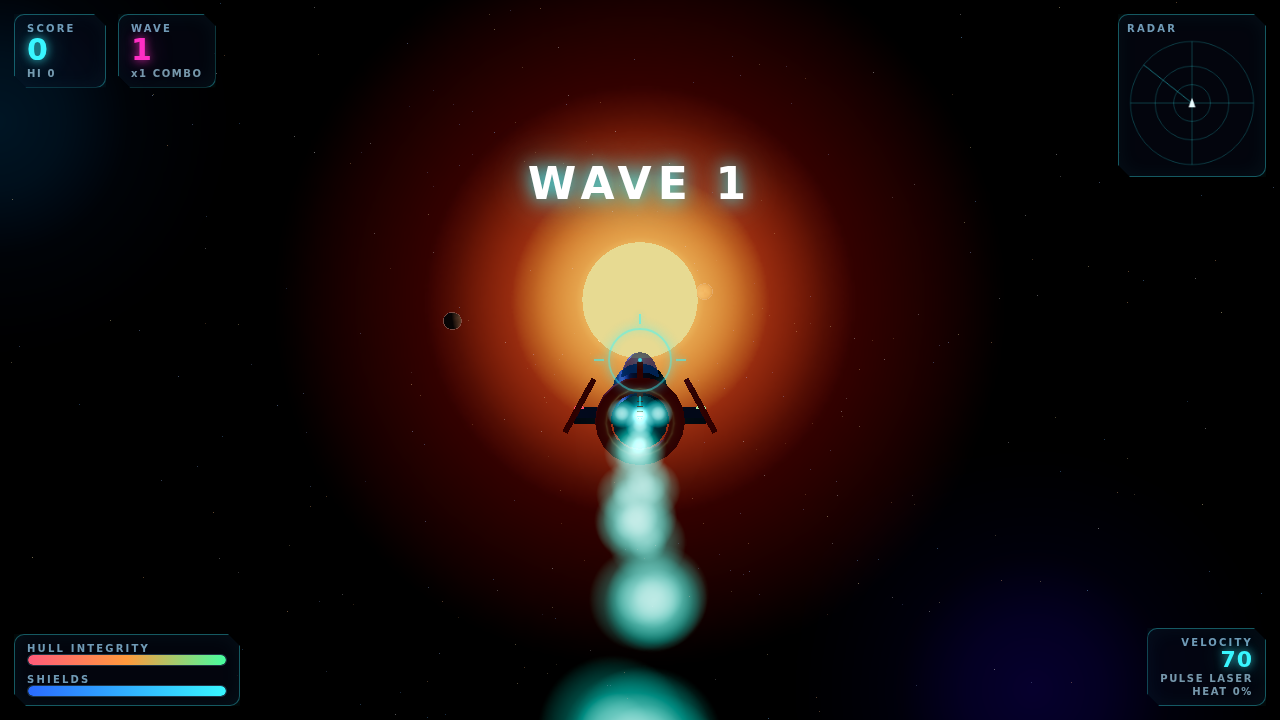
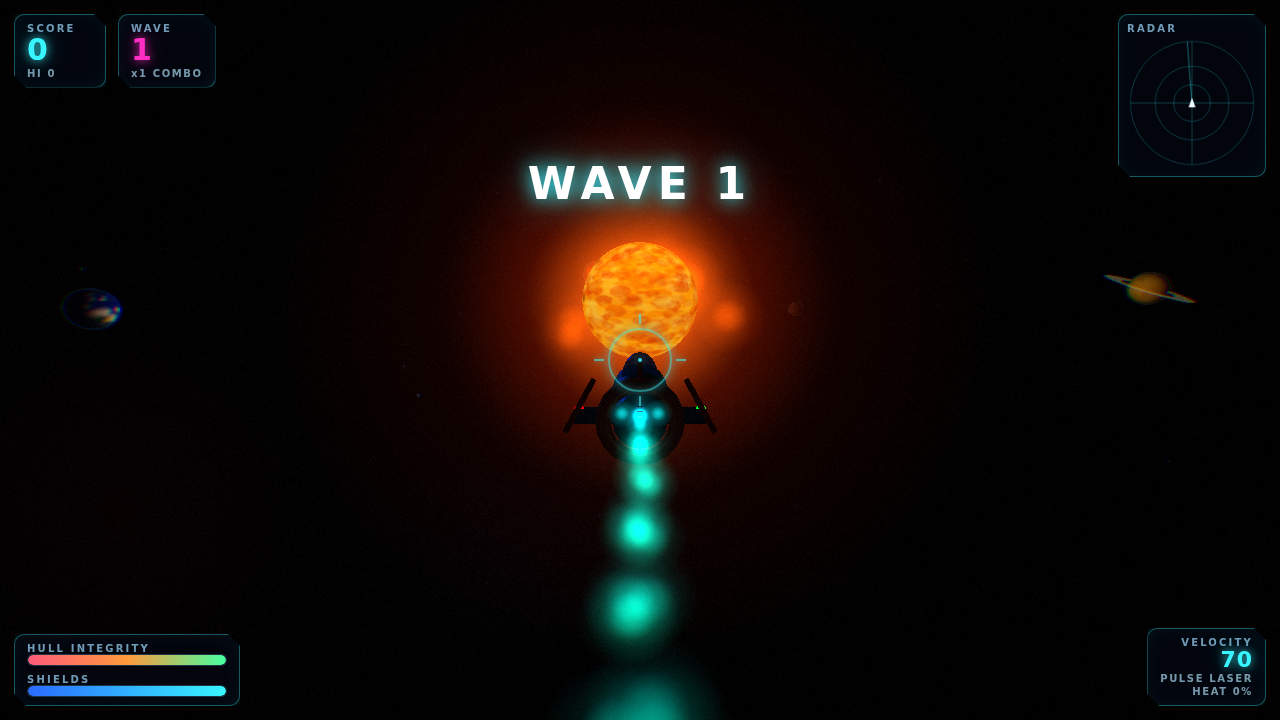
Graphics overhaul: cinematic grade, living sun, richer world
- Add a post-process color-grade pass after bloom: edge chromatic aberration,
  soft vignette, animated film grain and a saturation lift for a filmic,
  "spaceship viewport" look (dialed back on low-end devices).
- Rebuild the sun as roiling plasma: a granulated surface texture with sunspots,
  three shimmering counter-rotating corona layers, seven drifting flares and a
  flickering light.
- Add drifting cloud shells to Terra and the gas giant.
- Add near-field speed dust the ship streams through for motion and depth.
- Make aliens read as real craft: tighter aura, brighter self-lit hulls, and a
  pulsing thruster glow behind each ship; fix hit-flash to restore the new base.

Claude-Session: https://claude.ai/code/session_013SpeVTwFhNeRc4NELE5idg

diff --git a/src/SolarSystem.js b/src/SolarSystem.js
@@ -87,6 +87,45 @@ export class SolarSystem {
     this._buildNebula();
     this._buildSun();
     this._buildPlanets();
+    this._buildDust();
+  }
+
+  // Near-field motion dust: faint particles the ship streams through, wrapped in a
+  // box around the camera so there's always a sense of speed and depth.
+  _buildDust() {
+    const count = this.quality === 'low' ? 260 : 520;
+    this.dustRange = 900;
+    const pos = new Float32Array(count * 3);
+    for (let i = 0; i < count * 3; i++) pos[i] = randRange(-this.dustRange, this.dustRange);
+    const geo = new THREE.BufferGeometry();
+    geo.setAttribute('position', new THREE.BufferAttribute(pos, 3));
+    const mat = new THREE.PointsMaterial({
+      size: 3.4, map: makeGlowSprite(), color: 0x9fc8ff,
+      transparent: true, opacity: 0.5, depthWrite: false,
+      blending: THREE.AdditiveBlending, sizeAttenuation: true,
+    });
+    this.dust = new THREE.Points(geo, mat);
+    this.dust.frustumCulled = false;
+    this.dustCount = count;
+    this.scene.add(this.dust);
+  }
+
+  _updateDust(center) {
+    if (!this.dust || !center) return;
+    const arr = this.dust.geometry.attributes.position.array;
+    const R = this.dustRange;
+    let dirty = false;
+    for (let i = 0; i < this.dustCount; i++) {
+      const k = i * 3;
+      // Wrap each axis relative to the camera so the field follows the ship.
+      for (let a = 0; a < 3; a++) {
+        const c = a === 0 ? center.x : a === 1 ? center.y : center.z;
+        let d = arr[k + a] - c;
+        if (d > R) { arr[k + a] -= 2 * R; dirty = true; }
+        else if (d < -R) { arr[k + a] += 2 * R; dirty = true; }
+      }
+    }
+    if (dirty) this.dust.geometry.attributes.position.needsUpdate = true;
   }
 
   _buildStars() {
@@ -149,20 +188,38 @@ export class SolarSystem {
   }
 
   _buildSun() {
-    const geo = new THREE.SphereGeometry(200, 48, 48);
-    const mat = new THREE.MeshBasicMaterial({ color: 0xffdd66 });
+    const geo = new THREE.SphereGeometry(200, 64, 64);
+    // Granulated, mottled surface so the sun reads as roiling plasma, not a flat disc.
+    const mat = new THREE.MeshBasicMaterial({ map: makeSunTexture() });
     this.sun = new THREE.Mesh(geo, mat);
     this.root.add(this.sun);
 
-    // Layered additive glow sprites make the sun bloom nicely.
+    // Layered additive glow sprites make the sun bloom nicely; kept for animation.
+    this.sunGlows = [];
     const glowTex = makeGlowSprite();
-    for (const [scale, opacity, color] of [[900, 0.9, 0xffcc55], [1500, 0.5, 0xff8844], [2600, 0.25, 0xff5522]]) {
+    const layers = [[820, 0.95, 0xffe08a, 0.05], [1400, 0.55, 0xff9a44, -0.03], [2600, 0.28, 0xff5a22, 0.02]];
+    for (const [scale, opacity, color, spin] of layers) {
       const s = new THREE.Sprite(new THREE.SpriteMaterial({
         map: glowTex, color, transparent: true, opacity,
         depthWrite: false, blending: THREE.AdditiveBlending,
       }));
       s.scale.set(scale, scale, 1);
+      s.userData = { baseScale: scale, baseOpacity: opacity, spin };
       this.sun.add(s);
+      this.sunGlows.push(s);
+    }
+
+    // A ring of drifting corona flares for a living, flickering star.
+    this.sunFlares = [];
+    for (let i = 0; i < 7; i++) {
+      const f = new THREE.Sprite(new THREE.SpriteMaterial({
+        map: glowTex, color: 0xffb355, transparent: true, opacity: 0.5,
+        depthWrite: false, blending: THREE.AdditiveBlending,
+      }));
+      const a = (i / 7) * Math.PI * 2;
+      f.userData = { angle: a, speed: randRange(0.15, 0.4) * (i % 2 ? 1 : -1), r: randRange(230, 320), s: randRange(200, 420) };
+      this.sun.add(f);
+      this.sunFlares.push(f);
     }
 
     // Point light emanating from the sun.
@@ -206,7 +263,21 @@ export class SolarSystem {
 
       if (def.ring) this._addRing(mesh, def.radius);
 
-      this.planets.push({ pivot, mesh, def, angle: pivot.rotation.y, spin: randRange(0.05, 0.2) });
+      // Drifting cloud shell for worlds with an atmosphere (Terra gets the richest).
+      let clouds = null;
+      if (def.ocean || def.bands) {
+        clouds = new THREE.Mesh(
+          new THREE.SphereGeometry(def.radius * 1.03, 40, 40),
+          new THREE.MeshStandardMaterial({
+            map: makeCloudTexture(def.ocean),
+            transparent: true, opacity: def.ocean ? 0.85 : 0.4,
+            roughness: 1, metalness: 0, depthWrite: false,
+          })
+        );
+        mesh.add(clouds);
+      }
+
+      this.planets.push({ pivot, mesh, clouds, def, angle: pivot.rotation.y, spin: randRange(0.05, 0.2) });
       this.colliders.push({ position: mesh.getWorldPosition(new THREE.Vector3()), radius: def.radius * 1.15, mesh });
     }
   }
@@ -239,24 +310,99 @@ export class SolarSystem {
   }
 
   update(dt, cameraPos) {
-    // Orbit + spin planets.
+    this._t = (this._t || 0) + dt;
+    // Orbit + spin planets and their cloud shells.
     for (const p of this.planets) {
       p.pivot.rotation.y += p.def.speed * dt * 0.4;
       p.mesh.rotation.y += p.spin * dt;
-      // Keep collider world positions current.
-      p.mesh.getWorldPosition(this._tmp || (this._tmp = new THREE.Vector3()));
+      if (p.clouds) p.clouds.rotation.y += p.spin * dt * 1.4; // clouds drift faster
     }
     for (let i = 0; i < this.colliders.length; i++) {
       const col = this.colliders[i];
       if (col.mesh) col.mesh.getWorldPosition(col.position);
     }
+
+    // Sun: slow surface churn, shimmering corona layers, drifting flares, flicker.
     this.sun.rotation.y += dt * 0.03;
+    const flick = 0.94 + Math.sin(this._t * 7.3) * 0.03 + Math.sin(this._t * 2.1) * 0.03;
+    if (this.sunGlows) {
+      for (const g of this.sunGlows) {
+        g.material.rotation += g.userData.spin * dt;
+        const pulse = 1 + Math.sin(this._t * 1.3 + g.userData.baseScale) * 0.03;
+        g.scale.setScalar(g.userData.baseScale * pulse);
+        g.material.opacity = g.userData.baseOpacity * flick;
+      }
+    }
+    if (this.sunFlares) {
+      for (const f of this.sunFlares) {
+        const u = f.userData;
+        u.angle += u.speed * dt;
+        f.position.set(Math.cos(u.angle) * u.r, Math.sin(u.angle * 1.3) * u.r * 0.5, Math.sin(u.angle) * u.r);
+        const s = u.s * (0.85 + Math.sin(this._t * 3 + u.angle) * 0.25);
+        f.scale.setScalar(s);
+        f.material.opacity = 0.35 + Math.sin(this._t * 4 + u.angle) * 0.2;
+      }
+    }
+    if (this.sunLight) this.sunLight.intensity = 3.2 * flick;
+
     // Parallax: keep starfield/nebula centred on the camera so they feel infinitely far.
     if (cameraPos) {
       this.stars.position.copy(cameraPos);
       this.nebulae.position.copy(cameraPos);
+      this._updateDust(cameraPos);
     }
   }
+}
+
+// Roiling plasma texture for the sun surface.
+function makeSunTexture() {
+  const s = 512;
+  const c = document.createElement('canvas');
+  c.width = s; c.height = s;
+  const ctx = c.getContext('2d');
+  ctx.fillStyle = '#ffcf55';
+  ctx.fillRect(0, 0, s, s);
+  // Granulation cells.
+  for (let i = 0; i < 2600; i++) {
+    const x = Math.random() * s, y = Math.random() * s, r = randRange(3, 16);
+    const hot = Math.random() < 0.5;
+    const col = hot ? [255, 240, 180] : [230, 120, 40];
+    ctx.globalAlpha = randRange(0.05, 0.3);
+    ctx.fillStyle = `rgb(${col[0]},${col[1]},${col[2]})`;
+    ctx.beginPath(); ctx.arc(x, y, r, 0, Math.PI * 2); ctx.fill();
+  }
+  // A few darker sunspots.
+  for (let i = 0; i < 6; i++) {
+    ctx.globalAlpha = randRange(0.25, 0.45);
+    ctx.fillStyle = '#7a3a10';
+    ctx.beginPath(); ctx.ellipse(Math.random() * s, Math.random() * s, randRange(8, 22), randRange(6, 16), Math.random() * Math.PI, 0, Math.PI * 2); ctx.fill();
+  }
+  ctx.globalAlpha = 1;
+  const tex = new THREE.CanvasTexture(c);
+  tex.colorSpace = THREE.SRGBColorSpace;
+  return tex;
+}
+
+// Soft cloud shell texture; oceanic worlds get denser white clouds.
+function makeCloudTexture(dense) {
+  const s = 256;
+  const c = document.createElement('canvas');
+  c.width = s; c.height = s;
+  const ctx = c.getContext('2d');
+  ctx.clearRect(0, 0, s, s);
+  const n = dense ? 90 : 50;
+  for (let i = 0; i < n; i++) {
+    const x = Math.random() * s, y = Math.random() * s;
+    const r = randRange(6, 26);
+    const g = ctx.createRadialGradient(x, y, 0, x, y, r);
+    g.addColorStop(0, `rgba(255,255,255,${randRange(0.4, 0.9)})`);
+    g.addColorStop(1, 'rgba(255,255,255,0)');
+    ctx.fillStyle = g;
+    ctx.beginPath(); ctx.arc(x, y, r, 0, Math.PI * 2); ctx.fill();
+  }
+  const tex = new THREE.CanvasTexture(c);
+  tex.colorSpace = THREE.SRGBColorSpace;
+  return tex;
 }
 
 // --- shared sprite textures (cached) ---

diff --git a/src/Game.js b/src/Game.js
@@ -6,6 +6,7 @@ import * as THREE from 'three';
 import { EffectComposer } from 'three/addons/postprocessing/EffectComposer.js';
 import { RenderPass } from 'three/addons/postprocessing/RenderPass.js';
 import { UnrealBloomPass } from 'three/addons/postprocessing/UnrealBloomPass.js';
+import { ShaderPass } from 'three/addons/postprocessing/ShaderPass.js';
 
 import { SolarSystem } from './SolarSystem.js';
 import { Player } from './Player.js';
@@ -72,9 +73,53 @@ export class Game {
     // explosions glow. Lighter on low-end devices.
     this.composer = new EffectComposer(this.renderer);
     this.composer.addPass(new RenderPass(this.scene, this.camera));
-    const strength = this.quality === 'high' ? 0.62 : 0.5;
-    this.bloom = new UnrealBloomPass(new THREE.Vector2(window.innerWidth, window.innerHeight), strength, 0.6, 0.9);
+    const strength = this.quality === 'high' ? 0.72 : 0.55;
+    this.bloom = new UnrealBloomPass(new THREE.Vector2(window.innerWidth, window.innerHeight), strength, 0.65, 0.85);
     this.composer.addPass(this.bloom);
+
+    // Cinematic grade: chromatic aberration toward the edges, a soft vignette,
+    // gentle film grain and a saturation lift for that "spaceship viewport" look.
+    this.gradePass = new ShaderPass({
+      uniforms: {
+        tDiffuse: { value: null },
+        uTime: { value: 0 },
+        uAberration: { value: this.quality === 'high' ? 1.6 : 0.9 },
+        uVignette: { value: 0.62 },
+        uGrain: { value: this.quality === 'high' ? 0.05 : 0.03 },
+        uSaturation: { value: 1.14 },
+      },
+      vertexShader: /* glsl */`
+        varying vec2 vUv;
+        void main(){ vUv = uv; gl_Position = projectionMatrix * modelViewMatrix * vec4(position,1.0); }
+      `,
+      fragmentShader: /* glsl */`
+        varying vec2 vUv;
+        uniform sampler2D tDiffuse;
+        uniform float uTime, uAberration, uVignette, uGrain, uSaturation;
+        void main(){
+          vec2 uv = vUv;
+          vec2 center = uv - 0.5;
+          float dist = length(center);
+          // Chromatic aberration grows toward the frame edges.
+          vec2 dir = center * (uAberration * 0.006) * dist * 2.0;
+          float r = texture2D(tDiffuse, uv - dir).r;
+          float g = texture2D(tDiffuse, uv).g;
+          float b = texture2D(tDiffuse, uv + dir).b;
+          vec3 col = vec3(r, g, b);
+          // Saturation.
+          float lum = dot(col, vec3(0.299, 0.587, 0.114));
+          col = mix(vec3(lum), col, uSaturation);
+          // Vignette.
+          float vig = smoothstep(0.95, 0.32, dist);
+          col *= mix(1.0, vig, uVignette);
+          // Animated film grain.
+          float grain = fract(sin(dot(uv + uTime, vec2(12.9898, 78.233))) * 43758.5453);
+          col += (grain - 0.5) * uGrain;
+          gl_FragColor = vec4(col, 1.0);
+        }
+      `,
+    });
+    this.composer.addPass(this.gradePass);
   }
 
   _initSubsystems() {
@@ -168,6 +213,7 @@ export class Game {
   // ---------------- main loop ----------------
   _loop() {
     const dt = Math.min(0.05, this._clock.getDelta());
+    this._elapsed = (this._elapsed || 0) + dt;
 
     if (this.state === STATE.PLAYING) {
       this._updatePlaying(dt);
@@ -179,6 +225,7 @@ export class Game {
       this.projectiles.update(dt);
     }
 
+    this.gradePass.uniforms.uTime.value = this._elapsed;
     this.hud.update(dt);
     this.composer.render();
   }

diff --git a/src/AlienManager.js b/src/AlienManager.js
@@ -93,10 +93,22 @@ class Alien {
     this.mesh = BUILDERS[type](this.def);
     this.group.add(this.mesh);
 
-    // Aura glow sprite.
-    this.aura = new THREE.Sprite(new THREE.SpriteMaterial({ map: makeGlowSprite(), color: this.def.glow, transparent: true, opacity: 0.5, blending: THREE.AdditiveBlending, depthWrite: false }));
-    this.aura.scale.setScalar(this.def.radius * 3);
+    // Tight aura glow so the ship's silhouette still reads (was washing out).
+    this.aura = new THREE.Sprite(new THREE.SpriteMaterial({ map: makeGlowSprite(), color: this.def.glow, transparent: true, opacity: 0.32, blending: THREE.AdditiveBlending, depthWrite: false }));
+    this.aura.scale.setScalar(this.def.radius * 2.1);
     this.group.add(this.aura);
+
+    // Thruster glow behind the ship. Attached to the group (which faces travel via
+    // lookAt, +Z = forward) so it sits behind the alien and never spins with the hull.
+    this.trail = new THREE.Sprite(new THREE.SpriteMaterial({ map: makeGlowSprite(), color: this.def.glow, transparent: true, opacity: 0.7, blending: THREE.AdditiveBlending, depthWrite: false }));
+    this.trail.scale.setScalar(this.def.radius * 1.7);
+    this.trail.position.set(0, 0, -this.def.radius * 1.1);
+    this.group.add(this.trail);
+
+    // Give the hull a stronger self-lit glow so the geometry pops at distance.
+    this.mesh.traverse((o) => {
+      if (o.material && o.material.emissive) o.material.emissiveIntensity = Math.max(o.material.emissiveIntensity || 0, 0.55);
+    });
 
     scene.add(this.group);
     this.group.visible = false;
@@ -175,15 +187,17 @@ class Alien {
     if (this.type === 'cruiser') this.mesh.rotation.y += dt * 1.2;
     else this.mesh.rotation.z += dt * 0.6;
 
-    // Hit flash decay.
+    // Hit flash decay (restores to the brighter self-lit base, not below it).
     if (this.hitFlash > 0) {
       this.hitFlash -= dt;
       const f = Math.max(0, this.hitFlash / 0.12);
-      this.mesh.traverse((o) => { if (o.material && o.material.emissive) o.material.emissiveIntensity = 0.3 + f * 2; });
+      this.mesh.traverse((o) => { if (o.material && o.material.emissive) o.material.emissiveIntensity = 0.55 + f * 2.5; });
     }
 
-    // Aura faces camera automatically (sprite).
-    this.aura.material.opacity = 0.35 + Math.sin(this.wobble * 2) * 0.1;
+    // Aura + thruster pulse.
+    this.aura.material.opacity = 0.28 + Math.sin(this.wobble * 2) * 0.08;
+    const throb = 0.85 + Math.sin(this.wobble * 4) * 0.15;
+    this.trail.scale.setScalar(this.def.radius * 1.7 * throb);
 
     // Fire logic handled by manager (needs projectile pool); expose readiness.
     this.fireTimer -= dt;